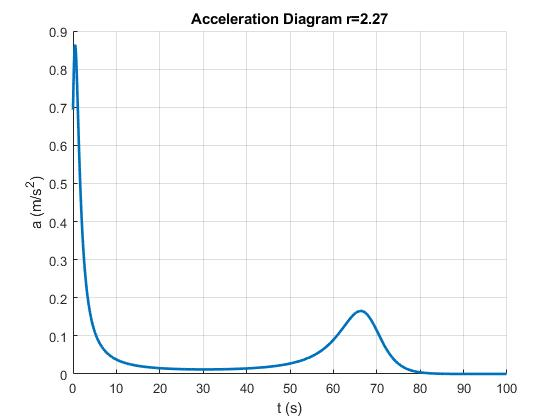
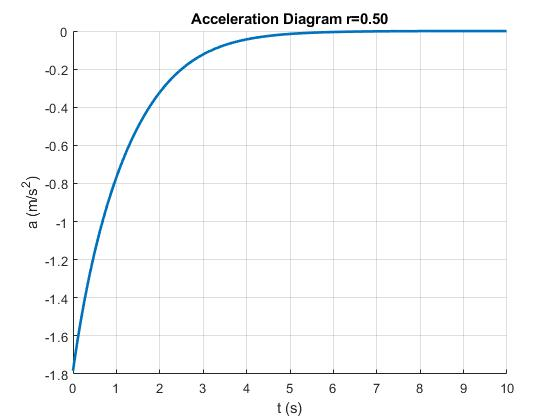
Back to Coefficients with Corrected Cq Scale

diff --git a/Fan.m b/Fan.m
@@ -1,64 +1,66 @@
 classdef Fan
 	properties
 		Name
+		air
 		m
 		D
 		I
-		T
-		Q
+		Ct
+		Cq
 		w_min
 		w_max
 		w_J_data
-		T_data
-		Q_data
-		T_rms
-		Q_rms
+		Ct_data
+		Cq_data
+		Ct_rms
+		Cq_rms
 	end
 	methods
-		function self = Fan(name, m, D, w_min, w_max, w_J_data, T_data, Q_data)
+		function self = Fan(name, air, m, D, w_min, w_max, w_J_data, Ct_data, Cq_data)
 			self.Name = name;
+			self.air = air;
 			self.m = m;
 			self.D = D;
 			self.I = self.m*self.D^2/12;
-			self.T = fit(w_J_data, T_data, 'poly55', 'Normalize', 'on');
-			self.Q = fit(w_J_data, Q_data, 'poly55', 'Normalize', 'on');
+			self.Ct = fit(w_J_data, Ct_data, 'poly55', 'Normalize', 'on');
+			self.Cq = fit(w_J_data, Cq_data, 'poly55', 'Normalize', 'on');
 			self.w_min = w_min;
 			self.w_max = w_max;
 			self.w_J_data = w_J_data;
-			self.T_data = T_data;
-			self.Q_data = Q_data;
-			self.T_rms = sqrt(sum((self.T(w_J_data)-T_data).^2))/size(w_J_data, 1)/(max(T_data)-min(T_data));
-			self.Q_rms = sqrt(sum((self.Q(w_J_data)-Q_data).^2))/size(w_J_data, 1)/(max(Q_data)-min(Q_data));
+			self.Ct_data = Ct_data;
+			self.Cq_data = Cq_data;
+			self.Ct_rms = sqrt(sum((self.Ct(w_J_data)-Ct_data).^2))/size(w_J_data, 1)/(max(Ct_data)-min(Ct_data));
+			self.Cq_rms = sqrt(sum((self.Cq(w_J_data)-Cq_data).^2))/size(w_J_data, 1)/(max(Cq_data)-min(Cq_data));
 		end
 		function [T, Q] = Find(self, V, w)
 			J = V./(w.*self.D);
-			T = self.T(w, J);
-			Q = self.Q(w, J);
+			T = (self.air.R * self.D^4) * w.^2 .* self.Ct(w, J);
+			Q = (self.air.R * self.D^5) * w.^2 .* self.Cq(w, J);
 		end
 		function RMS = RootMeanSquare(self)
-			RMS = sprintf('Root Mean Squares T=%e Q=%e\n', self.T_rms, self.Q_rms);
+			RMS = sprintf('Root Mean Squares Ct=%e Cq=%e\n', self.Ct_rms, self.Cq_rms);
 		end
 		function PlotFitJ(self)
 			J_data = reshape(self.w_J_data(:, 2), [], 17);
 			J_data = J_data(:, 1);
 			w_data = reshape(self.w_J_data(:, 1), [], 17);
 			w_data = w_data(1, :);
-			T_data = reshape(self.T_data, [], 17)';
-			Q_data = reshape(self.Q_data, [], 17)';
+			Ct_data = reshape(self.Ct_data, [], 17)';
+			Cq_data = reshape(self.Cq_data, [], 17)';
 			J_range = 0:J_data(end)/100:J_data(end);
 			w_middle = ceil(length(w_data)/2);
 			figure();
-			title(self.Name + " Thrust vs J");
+			title(self.Name + " Thrust Coefficient vs J");
 			hold('on');
 			grid('on');
 			xlabel('J');
-			ylabel('T (N)');
-			plot(J_range, self.T(w_data(1), J_range), '-r', 'LineWidth', 2);
-			plot(J_range, self.T(w_data(w_middle), J_range), '-g', 'LineWidth', 2);
-			plot(J_range, self.T(w_data(end), J_range), '-b', 'LineWidth', 2);
-			plot(J_data, T_data(1, :), 'xr', 'LineWidth', 2);
-			plot(J_data, T_data(w_middle, :), 'xg', 'LineWidth', 2);
-			plot(J_data, T_data(end, :), 'xb', 'LineWidth', 2);
+			ylabel('Ct');
+			plot(J_range, self.Ct(w_data(1), J_range), '-r', 'LineWidth', 2);
+			plot(J_range, self.Ct(w_data(w_middle), J_range), '-g', 'LineWidth', 2);
+			plot(J_range, self.Ct(w_data(end), J_range), '-b', 'LineWidth', 2);
+			plot(J_data, Ct_data(1, :), 'xr', 'LineWidth', 2);
+			plot(J_data, Ct_data(w_middle, :), 'xg', 'LineWidth', 2);
+			plot(J_data, Ct_data(end, :), 'xb', 'LineWidth', 2);
 			legend(...
 				sprintf('Fit w=%.0frad/s', w_data(1)),...
 				sprintf('Fit w=%.0frad/s', w_data(w_middle)),...
@@ -67,17 +69,17 @@ classdef Fan
 				sprintf('Data w=%.0frad/s', w_data(w_middle)),...
 				sprintf('Data w=%.0frad/s', w_data(end)), 'Location', 'Best');
 			figure();
-			title(self.Name + " Torque vs J");
+			title(self.Name + " Torque Coefficient vs J");
 			hold('on');
 			grid('on');
 			xlabel('J');
-			ylabel('Q (N.m)');
-			plot(J_range, self.Q(w_data(1), J_range), '-r', 'LineWidth', 2);
-			plot(J_range, self.Q(w_data(w_middle), J_range), '-g', 'LineWidth', 2);
-			plot(J_range, self.Q(w_data(end), J_range), '-b', 'LineWidth', 2);
-			plot(J_data, Q_data(1, :), 'xr', 'LineWidth', 2);
-			plot(J_data, Q_data(w_middle, :), 'xg', 'LineWidth', 2);
-			plot(J_data, Q_data(end, :), 'xb', 'LineWidth', 2);
+			ylabel('Cq');
+			plot(J_range, self.Cq(w_data(1), J_range), '-r', 'LineWidth', 2);
+			plot(J_range, self.Cq(w_data(w_middle), J_range), '-g', 'LineWidth', 2);
+			plot(J_range, self.Cq(w_data(end), J_range), '-b', 'LineWidth', 2);
+			plot(J_data, Cq_data(1, :), 'xr', 'LineWidth', 2);
+			plot(J_data, Cq_data(w_middle, :), 'xg', 'LineWidth', 2);
+			plot(J_data, Cq_data(end, :), 'xb', 'LineWidth', 2);
 			legend(...
 				sprintf('Fit w=%.0frad/s', w_data(1)),...
 				sprintf('Fit w=%.0frad/s', w_data(w_middle)),...
@@ -91,22 +93,22 @@ classdef Fan
 			J_data = J_data(:, 1);
 			w_data = reshape(self.w_J_data(:, 1), [], 17);
 			w_data = w_data(1, :);
-			T_data = reshape(self.T_data, [], 17)';
-			Q_data = reshape(self.Q_data, [], 17)';
+			Ct_data = reshape(self.Ct_data, [], 17)';
+			Cq_data = reshape(self.Cq_data, [], 17)';
 			w_range = 0:w_data(end)/100:w_data(end);
 			J_middle = ceil(length(J_data)/2);
 			figure();
-			title(self.Name + " Thrust vs w");
+			title(self.Name + " Thrust Coefficient vs w");
 			hold('on');
 			grid('on');
 			xlabel('w (rad/s)');
-			ylabel('T (N)');
-			plot(w_range, self.T(w_range, J_data(1)), '-r', 'LineWidth', 2);
-			plot(w_range, self.T(w_range, J_data(J_middle)), '-g', 'LineWidth', 2);
-			plot(w_range, self.T(w_range, J_data(end)), '-b', 'LineWidth', 2);
-			plot(w_data, T_data(:, 1), 'xr', 'LineWidth', 2);
-			plot(w_data, T_data(:, J_middle), 'xg', 'LineWidth', 2);
-			plot(w_data, T_data(:, end), 'xb', 'LineWidth', 2);
+			ylabel('Ct');
+			plot(w_range, self.Ct(w_range, J_data(1)), '-r', 'LineWidth', 2);
+			plot(w_range, self.Ct(w_range, J_data(J_middle)), '-g', 'LineWidth', 2);
+			plot(w_range, self.Ct(w_range, J_data(end)), '-b', 'LineWidth', 2);
+			plot(w_data, Ct_data(:, 1), 'xr', 'LineWidth', 2);
+			plot(w_data, Ct_data(:, J_middle), 'xg', 'LineWidth', 2);
+			plot(w_data, Ct_data(:, end), 'xb', 'LineWidth', 2);
 			legend(...
 				sprintf('Fit J=%.2f', J_data(1)),...
 				sprintf('Fit J=%.2f', J_data(J_middle)),...
@@ -115,17 +117,17 @@ classdef Fan
 				sprintf('Data J=%.2f', J_data(J_middle)),...
 				sprintf('Data J=%.2f', J_data(end)), 'Location', 'Best');
 			figure();
-			title(self.Name + " Torque vs w");
+			title(self.Name + " Torque Coefficient vs w");
 			hold('on');
 			grid('on');
 			xlabel('w (rad/s)');
-			ylabel('Q (N.m)');
-			plot(w_range, self.Q(w_range, J_data(1)), '-r', 'LineWidth', 2);
-			plot(w_range, self.Q(w_range, J_data(J_middle)), '-g', 'LineWidth', 2);
-			plot(w_range, self.Q(w_range, J_data(end)), '-b', 'LineWidth', 2);
-			plot(w_data, Q_data(:, 1), 'xr', 'LineWidth', 2);
-			plot(w_data, Q_data(:, J_middle), 'xg', 'LineWidth', 2);
-			plot(w_data, Q_data(:, end), 'xb', 'LineWidth', 2);
+			ylabel('Cq');
+			plot(w_range, self.Cq(w_range, J_data(1)), '-r', 'LineWidth', 2);
+			plot(w_range, self.Cq(w_range, J_data(J_middle)), '-g', 'LineWidth', 2);
+			plot(w_range, self.Cq(w_range, J_data(end)), '-b', 'LineWidth', 2);
+			plot(w_data, Cq_data(:, 1), 'xr', 'LineWidth', 2);
+			plot(w_data, Cq_data(:, J_middle), 'xg', 'LineWidth', 2);
+			plot(w_data, Cq_data(:, end), 'xb', 'LineWidth', 2);
 			legend(...
 				sprintf('Fit J=%.2f', J_data(1)),...
 				sprintf('Fit J=%.2f', J_data(J_middle)),...

diff --git a/GetAPC14x7E.m b/GetAPC14x7E.m
@@ -1,4 +1,4 @@
-function APC14x7E = GetAPC14x7E()
+function APC14x7E = GetAPC14x7E(air)
 	% w in RPM, J in 1/rev, Pe, Ct, Cp, PWR, Q in In.Lbf, T in Lbf
 	PER3_14x7E_DAT = [
 		1000        0.00      0.0000      0.0902      0.0335       0.001       0.091       0.110;
@@ -514,11 +514,11 @@ function APC14x7E = GetAPC14x7E()
 	];
 	% w in rad/s
 	PER3_14x7E_DAT(:, 1) = PER3_14x7E_DAT(:, 1) * (2*pi/60);
-	% J in 1
+	% J
 	PER3_14x7E_DAT(:, 2) = PER3_14x7E_DAT(:, 2) / (2*pi);
-	% Q in N.m
-	PER3_14x7E_DAT(:, 7) = PER3_14x7E_DAT(:, 7) * 0.112984833333333;
-	% T in N
-	PER3_14x7E_DAT(:, 8) = PER3_14x7E_DAT(:, 8) * 4.448221615255;
-	APC14x7E = Fan("APC 14x7E", 1.20*28.3495231e-3, 14*2.54e-2, min(PER3_14x7E_DAT(:, 1)), max(PER3_14x7E_DAT(:, 1)), PER3_14x7E_DAT(:, [1 2]), PER3_14x7E_DAT(:, 8), PER3_14x7E_DAT(:, 7));
+	% Ct
+	PER3_14x7E_DAT(:, 4) = PER3_14x7E_DAT(:, 4) / (2*pi)^2;
+	% Cq
+	PER3_14x7E_DAT(:, 5) = PER3_14x7E_DAT(:, 5) / (2*pi)^3;
+	APC14x7E = Fan("APC 14x7E", air, 1.20*28.3495231e-3, 14*2.54e-2, min(PER3_14x7E_DAT(:, 1)), max(PER3_14x7E_DAT(:, 1)), PER3_14x7E_DAT(:, [1 2]), PER3_14x7E_DAT(:, 4), PER3_14x7E_DAT(:, 5));
 end

diff --git a/Main.m b/Main.m
@@ -11,16 +11,16 @@ if ~isempty(errmsg)
 	fprintf('File %s Error Message: %s\n', fileName, errmsg);
 end
 
-fan = GetAPC14x7E();
+air = Air(5, 1.225);
+fan = GetAPC14x7E(air);
 fan.PlotFitw();
 fan.PlotFitJ();
 fprintf(fileID, fan.RootMeanSquare());
-air = Air(5);
 vehicle = Vehicle(fan, air, 1);
 
-[Vt, rt] = SearchTransmissionRatios(vehicle, 0.5:0.01:3);
+[Vt, rt] = SearchTransmissionRatios(vehicle, 0.5:0.1:5);
 vehicle = vehicle.Setr(rt);
-v = Simulate(vehicle, 100);
+v = Simulate(vehicle, 10);
 [Vmin, Vmax] = vehicle.SpeedBoundary();
 fprintf(fileID, 'r=%.2f Vt=%.1fm/s B=[%.1f, %.1f]m/s\n', rt, Vt, Vmin, Vmax);
 

diff --git a/SearchTransmissionRatios.m b/SearchTransmissionRatios.m
@@ -3,7 +3,7 @@ function [Vt, rt] = SearchTransmissionRatios(vehicle, rr)
 	for k = 1:length(rr)
 		vehicle = vehicle.Setr(rr(k));
 		[Vmin, Vmax] = vehicle.SpeedBoundary();
-		Vr(k) = BisectionMethod(@(V) vehicle.Acceleration(V), Vmin, Vmax, 1e-6, 1e3);
+		Vr(k) = BisectionMethod(@(V) vehicle.Acceleration(V), Vmin, Vmax*1000, 1e-6, 1e3);
 	end
 	[Vt, kt] = max(Vr);
 	rt = rr(kt);

diff --git a/Air.m b/Air.m
@@ -1,10 +1,12 @@
 classdef Air
 	properties
 		V
+		R
 	end
 	methods
-		function self = Air(V)
+		function self = Air(V, R)
 			self.V = V;
+			self.R = R;
 		end
 		function Vt = TrueSpeed(self, V)
 			Vt = V-self.V;
